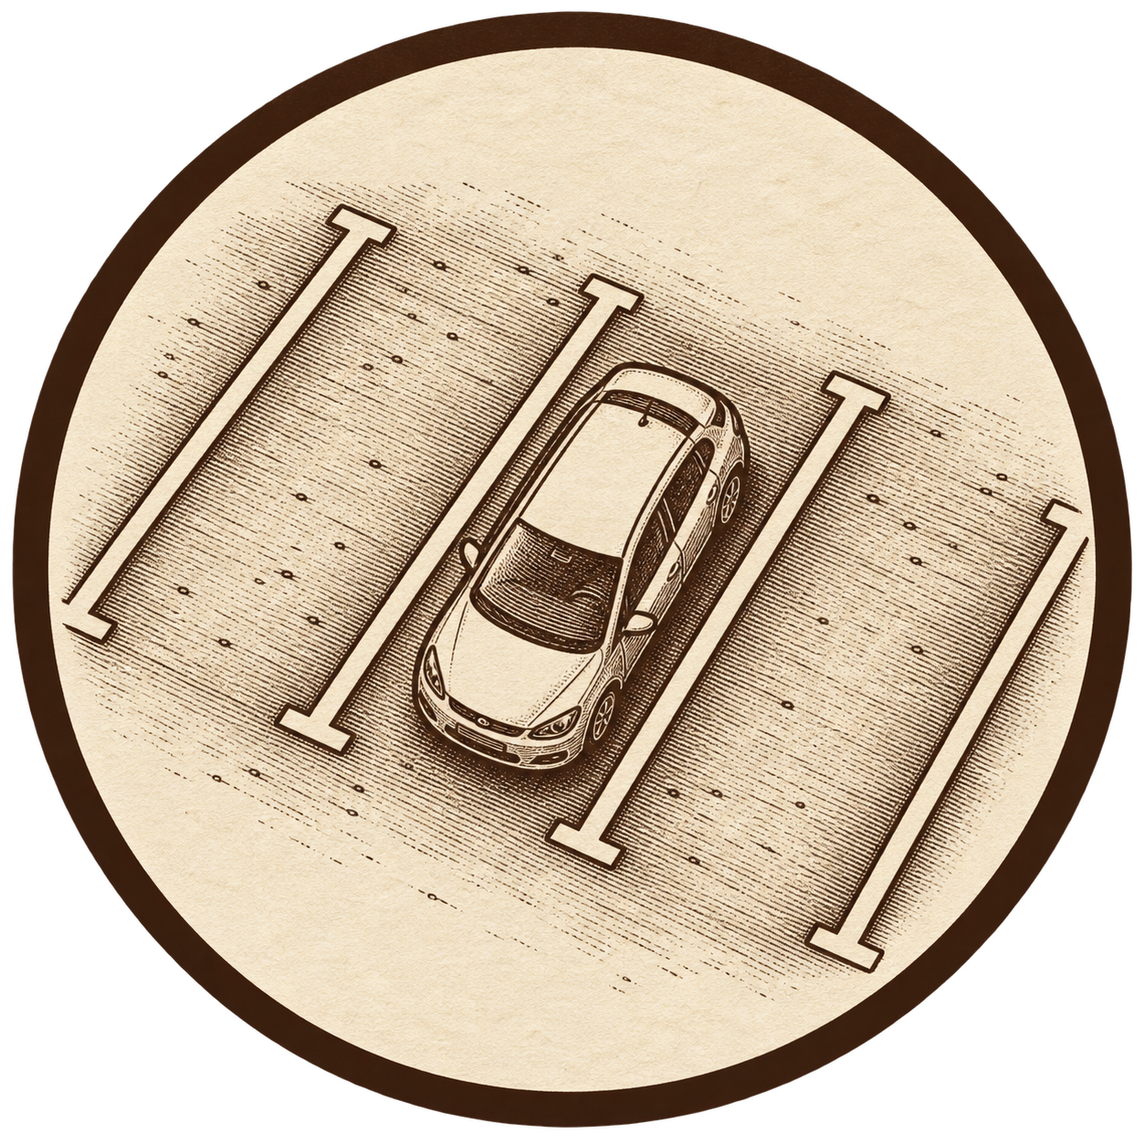
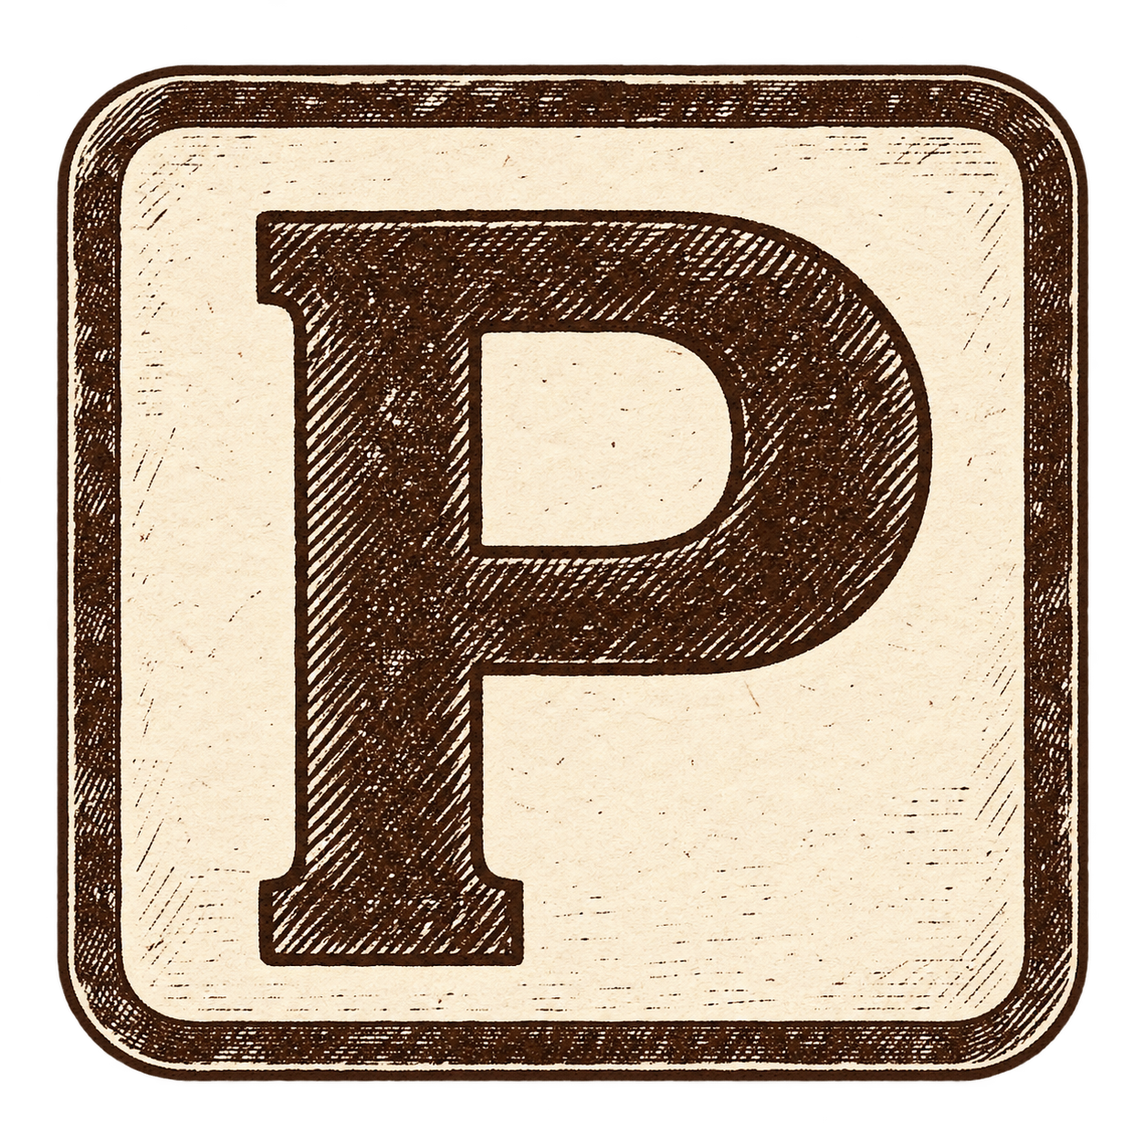
More spot areas, more pages for glossary

diff --git a/rawsite/css/style.css b/rawsite/css/style.css
@@ -73,7 +73,7 @@ main{max-width:312.208mm;margin:0 auto;padding:14.817mm var(--pad) 16.933mm}sect
 .glossary-article-eyebrow{margin:0 0 2.328mm;color:var(--alaea);font:600 3.302mm var(--sans);letter-spacing:.429mm;text-transform:uppercase}.glossary-term-layout{display:grid;grid-template-columns:minmax(0,1fr) 74.083mm;gap:10.583mm;align-items:start;margin-top:8.467mm}.glossary-definition--lead{max-width:calc(var(--measure) + 9.736mm + 4px);margin:0;padding:4.233mm 4.868mm;background:var(--kapa-warm);border-left:4px solid var(--alaea);font-size:4.318mm}.glossary-article-facts h3{margin:5.715mm 0 2.328mm;color:var(--bark);font:600 3.217mm var(--sans);letter-spacing:.483mm;text-transform:uppercase}.glossary-riding-status{margin:0;color:var(--ink-soft);font-size:3.810mm;line-height:1.4}.glossary-riding-note{margin:2.117mm 0 0;color:var(--ink-muted);font-size:3.387mm;line-height:1.35}.glossary-related{display:grid;gap:1.693mm;margin:0;padding-left:4.868mm}.glossary-related li{color:var(--ink-soft);font-size:3.895mm}.glossary-back{margin:10.583mm 0 0;padding-top:5.292mm;border-top:2px solid var(--bark);font:600 3.556mm var(--sans);letter-spacing:.285mm;text-transform:uppercase}
 .glossary-swell-figure{margin:8.467mm 0;border:2px solid var(--bark);background:var(--kapa-warm)}.glossary-swell-art{position:relative;line-height:0}.glossary-swell-art img{display:block;width:100%;height:auto}.glossary-swell-labels{position:absolute;inset:0;display:grid;grid-template-columns:1fr 1fr;grid-template-rows:1fr 1fr;gap:0;list-style:none;margin:0;padding:0;pointer-events:none}.glossary-swell-labels li{display:flex;align-items:flex-start;justify-content:flex-start;padding:2.963mm;min-width:0}.glossary-swell-labels a{pointer-events:auto;padding:1.058mm 2.117mm;background:var(--kapa);border:1px solid var(--bark);color:var(--bark);font:600 3.133mm var(--sans);letter-spacing:.251mm;line-height:1.1;text-decoration:none;text-transform:uppercase}.glossary-swell-labels a:hover,.glossary-swell-labels a[aria-current="page"]{background:var(--alaea);border-color:var(--alaea);color:var(--kapa)}.glossary-swell-key{display:grid;grid-template-columns:repeat(2,minmax(0,1fr));gap:0;margin:0}.glossary-swell-key>div{padding:2.963mm 3.598mm;border-top:1px solid var(--rule);border-right:1px solid var(--rule)}.glossary-swell-key>div:nth-child(even){border-right:0}.glossary-swell-key dt{color:var(--bark);font:600 3.133mm var(--sans);letter-spacing:.313mm;text-transform:uppercase}.glossary-swell-key dd{margin:.508mm 0 0;color:var(--ink-soft);font-size:3.598mm;line-height:1.35}
 .wave-anatomy-figure{margin:8.467mm 0;border:2px solid var(--bark);background:var(--kapa-warm)}.wave-anatomy-scroll{overflow-x:auto}.wave-anatomy-art{position:relative;min-width:152.4mm;line-height:0}.wave-anatomy-art img,.wave-anatomy-profile-svg{display:block;width:100%;height:auto}.wave-profile-bg{fill:var(--kapa-warm)}.wave-profile-water{fill:var(--reef)}.wave-profile-surface{fill:none;stroke:#fff4dd;stroke-width:8;stroke-linecap:round}.wave-profile-depthline{fill:none;stroke:var(--kapa);stroke-width:3;opacity:.28}.wave-profile-depthline--two{opacity:.18}.wave-profile-point{fill:var(--alaea);stroke:var(--kapa);stroke-width:3}.wave-profile-guide{fill:none;stroke:var(--bark);stroke-width:2;stroke-dasharray:8 7;opacity:.7}.wave-profile-measure,.wave-profile-period-measure{fill:none;stroke:var(--bark);stroke-width:4;stroke-linecap:round;stroke-linejoin:round}.wave-profile-arrow{fill:var(--alaea);stroke:var(--kapa);stroke-width:2}.wave-profile-motion{fill:none;stroke:var(--kapa);stroke-width:6;stroke-linecap:round}.wave-profile-motion-arrow{fill:var(--kapa)}.wave-profile-motion-label{position:absolute;left:86%;top:57%;transform:translate(-50%,-100%);padding:.846mm 1.693mm;background:rgba(55,41,29,.84);color:var(--kapa);font:600 2.752mm/1.1 var(--sans);letter-spacing:.159mm;text-transform:uppercase;white-space:nowrap}.wave-anatomy-labels{position:absolute;inset:0;list-style:none;margin:0;padding:0;pointer-events:none}.wave-anatomy-labels li{position:absolute;left:var(--label-x);top:var(--label-y);transform:translate(-50%,-50%)}.wave-anatomy-labels a{display:block;pointer-events:auto;padding:.846mm 1.693mm;border:1px solid var(--bark);background:rgba(243,230,201,.94);box-shadow:0 .635mm 1.693mm rgba(55,41,29,.22);color:var(--bark);font:600 2.752mm/1.1 var(--sans);letter-spacing:.159mm;text-decoration:none;text-transform:uppercase;white-space:nowrap}.wave-anatomy-labels a:hover,.wave-anatomy-labels a[aria-current="page"]{background:var(--alaea);border-color:var(--alaea);color:var(--kapa)}.wave-anatomy-figure figcaption>p{margin:0;padding:2.752mm 3.387mm;color:var(--ink-soft);font-size:3.598mm;line-height:1.4}.wave-anatomy-key{display:grid;grid-template-columns:repeat(2,minmax(0,1fr));margin:0}.wave-anatomy-key>div{padding:2.752mm 3.387mm;border-top:1px solid var(--rule);border-right:1px solid var(--rule)}.wave-anatomy-key>div:nth-child(even){border-right:0}.wave-anatomy-key dt{color:var(--bark);font:600 3.048mm var(--sans);letter-spacing:.251mm;text-transform:uppercase}.wave-anatomy-key dd{margin:.508mm 0 0;color:var(--ink-soft);font-size:3.387mm;line-height:1.35}
-@media(max-width:232.833mm){.site-header{grid-template-columns:1fr auto}.nav{grid-column:1/-1;order:3}.spot-layout,.glossary-term-layout{grid-template-columns:1fr}.facts{position:static}.spot-nav{grid-template-columns:1fr;text-align:left}.spot-nav .next{text-align:left}}
+@media(max-width:232.833mm){.site-header{grid-template-columns:1fr auto}.nav{grid-column:1/-1;order:3}.spot-layout,.glossary-intro,.glossary-term-layout{grid-template-columns:1fr}.glossary-key{order:-1}.facts{position:static}.spot-nav{grid-template-columns:1fr;text-align:left}.spot-nav .next{text-align:left}}
 @media(max-width:148.167mm){.cards{grid-template-columns:1fr}.boardscale{margin-left:-1.058mm;margin-right:-1.058mm}.boardscale-grid{min-width:150.813mm}.boardslot{min-width:23.283mm}.board-stage{height:87.313mm;padding-bottom:7.938mm}.board{height:calc(var(--board-length) * .582mm)}.glossary-swell-labels li{padding:1.693mm}.glossary-swell-labels a{font-size:2.752mm}.glossary-swell-key{grid-template-columns:1fr}.glossary-swell-key>div{border-right:0}}
 @media(max-width:148.167mm){.wave-anatomy-key{grid-template-columns:1fr}.wave-anatomy-key>div{border-right:0}.wave-anatomy-figure figcaption>p{font-size:3.387mm}}
 @media(prefers-reduced-motion:reduce){html{scroll-behavior:auto}.board-visual{transition:none}}

diff --git a/rawsite/_include/glossary-break-types-illustration.html b/rawsite/_include/glossary-break-types-illustration.html
@@ -1,0 +1,63 @@
+<script type="text/python">
+import html
+import os
+import sys
+
+sys.path.insert(0, os.path.dirname(os.path.abspath(__file__)))
+import sitedata as S
+
+b = S.base_url(page_file)
+current = params["current"]
+lang = S.lang_of(page_file)
+COPY = {
+    "en": {
+        "alt": "Four coastal scenes showing a beach break over sandbars, a reef break over a rocky shelf, a point break peeling around a headland, and a rivermouth break shaped by a river channel and sandbars.",
+        "aria": "Illustrated break types",
+        "panels": (
+            ("beach-break", "Beach break", "Moving sandbars make several short, shifting peaks and gaps in the breaking line."),
+            ("reef-break", "Reef break", "A hard fixed shelf creates one steep, powerful take-off beside a deeper channel."),
+            ("point-break", "Point break", "A headland turns swell into one long, orderly peeling wall that follows the coast."),
+            ("rivermouth", "Rivermouth break", "One sandbar beside a deep river channel focuses a defined peeling wave along the spit."),
+        ),
+    },
+    "ru": {
+        "alt": "Четыре прибрежные сцены: бич-брейк над песчаными банками, риф-брейк над каменной плитой, пойнт-брейк у мыса и устьевой брейк, который формируют русло и песчаные банки.",
+        "aria": "Типы брейков на иллюстрации",
+        "panels": (
+            ("beach-break", "Бич-брейк", "Подвижные песчаные банки создают несколько коротких, смещающихся пиков и разрывы в линии ломки."),
+            ("reef-break", "Риф-брейк", "Твёрдая неподвижная плита даёт один крутой мощный тейк-офф рядом с более глубоким каналом."),
+            ("point-break", "Пойнт-брейк", "Мыс поворачивает свелл в одну длинную ровную стенку, которая ломается вдоль берега."),
+            ("rivermouth", "Устьевой брейк", "Одна песчаная коса у глубокого речного русла собирает чёткую пилинговую волну вдоль берега."),
+        ),
+    },
+    "ja": {
+        "alt": "サンドバーの上で割れるビーチブレイク、岩棚の上のリーフブレイク、岬に沿ってピーリングするポイントブレイク、川の流路とサンドバーで形づくられる河口のブレイクを描いた四つの海岸の場面。",
+        "aria": "イラストで見るブレイクの種類",
+        "panels": (
+            ("beach-break", "ビーチブレイク", "動くサンドバーが、短く位置の変わる複数のピークとブレイクの切れ目を作ります。"),
+            ("reef-break", "リーフブレイク", "硬く固定された岩棚が、深いチャンネルの横に急でパワフルな一つのテイクオフを作ります。"),
+            ("point-break", "ポイントブレイク", "岬がうねりを曲げ、海岸線に沿って長く規則正しくピーリングする壁を作ります。"),
+            ("rivermouth", "河口のブレイク", "深い川の流路の横にある一つのサンドバーが、砂州に沿うはっきりしたピーリング波を集めます。"),
+        ),
+    },
+}[lang]
+panels = COPY["panels"]
+
+print('<figure class="glossary-swell-figure glossary-break-types-figure">')
+print('  <div class="glossary-swell-art">')
+print(f'    <img src="{b}img/glossary/break-types-v1.png" alt="{html.escape(COPY["alt"], quote=True)}" width="1254" height="1254" loading="lazy">')
+print(f'    <ol class="glossary-swell-labels" aria-label="{html.escape(COPY["aria"], quote=True)}">')
+for key, label, description in panels:
+    active = ' aria-current="page"' if key == current else ''
+    href = b + "glossary/" + S.localize(f"{key}/index.html", lang)
+    print(f'      <li><a href="{html.escape(href, quote=True)}"{active}>{html.escape(label)}</a></li>')
+print('    </ol>')
+print('  </div>')
+print('  <figcaption>')
+print('    <dl class="glossary-swell-key">')
+for key, label, description in panels:
+    print(f'      <div><dt>{html.escape(label)}</dt><dd>{html.escape(description)}</dd></div>')
+print('    </dl>')
+print('  </figcaption>')
+print('</figure>')
+</script>

diff --git a/rawsite/_include/area-profile.html b/rawsite/_include/area-profile.html
@@ -14,11 +14,12 @@ print(f'<h1>{S.AREAS_META[area_id][lang]}</h1>')
 print(f'<p class="standfirst">{area["summary"][lang]}</p>')
 print('<div class="spot-layout">')
 print('  <div class="spot-body">')
-copy = {
-    "en": ("Coast character", "A sandy beach with a gently sloping seabed. Lines of tetrapods run parallel to the shore. Suitable tide levels are low and mid, and more rarely high. The best swell directions run from east through south-southwest. In the north-eastern part (Mansionsita), soft waves suitable for longboards can form. The south-western side of the area is characterised by higher, faster waves, more suitable for mid-length and short boards.", "Spots in this area", "At a glance"),
-    "ru": ("Характер побережья", "Песчаный пляж с плавным понижением дна. Параллельно берегу расположены гряды тетраподов. Подходящие уровни прилива — низкий и средний, реже высокий. Лучшие направления свелла — с восточного по юго-юго-западный. В северо-восточной части («Мансёнсита») могут формироваться мягкие волны, хорошие для длинных досок. Юго-западная сторона района характеризуется более высокими и быстрыми волнами, подходящими скорее для средних и коротких досок.", "Споты района", "Кратко"),
-    "ja": ("海岸の特徴", "緩やかに深くなる砂浜です。海岸と平行にテトラポッドの列が並んでいます。向く潮位はロー〜ミドルで、ハイタイドはまれです。うねりは東から南南西までがよく、北東側のマンション下ではロングボード向きの緩やかな波が立つことがあります。エリア南西側はよりサイズがあり速い波で、ミッドレングスやショートボードにより向いています。", "このエリアのスポット", "ポイント概要"),
+labels = {
+    "en": ("Coast character", "Spots in this area", "At a glance"),
+    "ru": ("Характер побережья", "Споты района", "Кратко"),
+    "ja": ("海岸の特徴", "このエリアのスポット", "ポイント概要"),
 }[lang]
+copy = (labels[0], S.AREA_COAST_COPY[area_id][lang], labels[1], labels[2])
 print('<h2>' + copy[0] + '</h2>')
 print('<p>' + copy[1] + '</p>')
 print('<h2>' + copy[2] + '</h2>')

diff --git a/rawsite/spots/ichinomiya/index_ja.html b/rawsite/spots/ichinomiya/index_ja.html
@@ -1,7 +1,9 @@
 <!DOCTYPE html><html lang="ja"><head>
 <script type="text/python">html, soup = include("../../_include/head.html"); print(html)</script>
+<script type="text/python">html, soup = include("../../_include/area-map-head.html"); print(html)</script>
 <title>一宮 — Surf Japan</title><meta name="language" content="ja"><meta name="description" content="千葉・一宮のサーフエリアガイド。変化するサンドバー、東うねり、釣ヶ崎・志田下エリアを紹介します。"></head><body>
 <script type="text/python">html, soup = include("../../_include/header.html"); print(html)</script><main id="main">
 <script type="text/python">html, soup = include("../../_include/breadcrumbs.html", title="一宮"); print(html)</script>
 <script type="text/python">html, soup = include("../../_include/area-profile.html", area="ichinomiya"); print(html)</script>
+<script type="text/python">html, soup = include("../../_include/area-map.html", area="ichinomiya"); print(html)</script>
 </main><script type="text/python">html, soup = include("../../_include/footer.html"); print(html)</script></body></html>

diff --git a/rawsite/spots/sosa/index_ja.html b/rawsite/spots/sosa/index_ja.html
@@ -1,7 +1,9 @@
 <!DOCTYPE html><html lang="ja"><head>
 <script type="text/python">html, soup = include("../../_include/head.html"); print(html)</script>
+<script type="text/python">html, soup = include("../../_include/area-map-head.html"); print(html)</script>
 <title>匝瑳 — Surf Japan</title><meta name="language" content="ja"><meta name="description" content="千葉北・匝瑳のサーフエリアガイド。開けた砂のブレイク、東〜南うねり、かんぽ前を紹介します。"></head><body>
 <script type="text/python">html, soup = include("../../_include/header.html"); print(html)</script><main id="main">
 <script type="text/python">html, soup = include("../../_include/breadcrumbs.html", title="匝瑳"); print(html)</script>
 <script type="text/python">html, soup = include("../../_include/area-profile.html", area="sosa"); print(html)</script>
+<script type="text/python">html, soup = include("../../_include/area-map.html", area="sosa"); print(html)</script>
 </main><script type="text/python">html, soup = include("../../_include/footer.html"); print(html)</script></body></html>

diff --git a/rawsite/spots/sakuta/index_ja.html b/rawsite/spots/sakuta/index_ja.html
@@ -1,7 +1,9 @@
 <!DOCTYPE html><html lang="ja"><head>
 <script type="text/python">html, soup = include("../../_include/head.html"); print(html)</script>
+<script type="text/python">html, soup = include("../../_include/area-map-head.html"); print(html)</script>
 <title>作田 — Surf Japan</title><meta name="language" content="ja"><meta name="description" content="作田と九十九里海岸のサーフエリアガイド。幅広い砂浜、複数のピーク、北西風を紹介します。"></head><body>
 <script type="text/python">html, soup = include("../../_include/header.html"); print(html)</script><main id="main">
 <script type="text/python">html, soup = include("../../_include/breadcrumbs.html", title="作田"); print(html)</script>
 <script type="text/python">html, soup = include("../../_include/area-profile.html", area="sakuta"); print(html)</script>
+<script type="text/python">html, soup = include("../../_include/area-map.html", area="sakuta"); print(html)</script>
 </main><script type="text/python">html, soup = include("../../_include/footer.html"); print(html)</script></body></html>

diff --git a/rawsite/spots/katsuura/index_ja.html b/rawsite/spots/katsuura/index_ja.html
@@ -1,7 +1,9 @@
 <!DOCTYPE html><html lang="ja"><head>
 <script type="text/python">html, soup = include("../../_include/head.html"); print(html)</script>
+<script type="text/python">html, soup = include("../../_include/area-map-head.html"); print(html)</script>
 <title>勝浦 — Surf Japan</title><meta name="language" content="ja"><meta name="description" content="千葉・勝浦と御宿のサーフエリアガイド。白い砂浜、南うねり、港のピークを紹介します。"></head><body>
 <script type="text/python">html, soup = include("../../_include/header.html"); print(html)</script><main id="main">
 <script type="text/python">html, soup = include("../../_include/breadcrumbs.html", title="勝浦"); print(html)</script>
 <script type="text/python">html, soup = include("../../_include/area-profile.html", area="katsuura"); print(html)</script>
+<script type="text/python">html, soup = include("../../_include/area-map.html", area="katsuura"); print(html)</script>
 </main><script type="text/python">html, soup = include("../../_include/footer.html"); print(html)</script></body></html>

diff --git a/rawsite/spots/katsuura/index_ru.html b/rawsite/spots/katsuura/index_ru.html
@@ -1,7 +1,9 @@
 <!DOCTYPE html><html lang="ru"><head>
 <script type="text/python">html, soup = include("../../_include/head.html"); print(html)</script>
+<script type="text/python">html, soup = include("../../_include/area-map-head.html"); print(html)</script>
 <title>Кацуура — Сёрф Япония</title><meta name="language" content="ru"><meta name="description" content="Гид по сёрф-району Кацуура и Ондзюку в Тиба Минами."></head><body>
 <script type="text/python">html, soup = include("../../_include/header.html"); print(html)</script><main id="main">
 <script type="text/python">html, soup = include("../../_include/breadcrumbs.html", title="Кацуура"); print(html)</script>
 <script type="text/python">html, soup = include("../../_include/area-profile.html", area="katsuura"); print(html)</script>
+<script type="text/python">html, soup = include("../../_include/area-map.html", area="katsuura"); print(html)</script>
 </main><script type="text/python">html, soup = include("../../_include/footer.html"); print(html)</script></body></html>

diff --git a/rawsite/spots/ichinomiya/index_ru.html b/rawsite/spots/ichinomiya/index_ru.html
@@ -1,7 +1,9 @@
 <!DOCTYPE html><html lang="ru"><head>
 <script type="text/python">html, soup = include("../../_include/head.html"); print(html)</script>
+<script type="text/python">html, soup = include("../../_include/area-map-head.html"); print(html)</script>
 <title>Итиномия — Сёрф Япония</title><meta name="language" content="ru"><meta name="description" content="Гид по сёрф-району Итиномия в Тиба Кита."></head><body>
 <script type="text/python">html, soup = include("../../_include/header.html"); print(html)</script><main id="main">
 <script type="text/python">html, soup = include("../../_include/breadcrumbs.html", title="Итиномия"); print(html)</script>
 <script type="text/python">html, soup = include("../../_include/area-profile.html", area="ichinomiya"); print(html)</script>
+<script type="text/python">html, soup = include("../../_include/area-map.html", area="ichinomiya"); print(html)</script>
 </main><script type="text/python">html, soup = include("../../_include/footer.html"); print(html)</script></body></html>

diff --git a/rawsite/spots/sakuta/index_ru.html b/rawsite/spots/sakuta/index_ru.html
@@ -1,7 +1,9 @@
 <!DOCTYPE html><html lang="ru"><head>
 <script type="text/python">html, soup = include("../../_include/head.html"); print(html)</script>
+<script type="text/python">html, soup = include("../../_include/area-map-head.html"); print(html)</script>
 <title>Сакута — Сёрф Япония</title><meta name="language" content="ru"><meta name="description" content="Гид по сёрф-району Сакута в Тиба Кита."></head><body>
 <script type="text/python">html, soup = include("../../_include/header.html"); print(html)</script><main id="main">
 <script type="text/python">html, soup = include("../../_include/breadcrumbs.html", title="Сакута"); print(html)</script>
 <script type="text/python">html, soup = include("../../_include/area-profile.html", area="sakuta"); print(html)</script>
+<script type="text/python">html, soup = include("../../_include/area-map.html", area="sakuta"); print(html)</script>
 </main><script type="text/python">html, soup = include("../../_include/footer.html"); print(html)</script></body></html>

diff --git a/rawsite/spots/sosa/index_ru.html b/rawsite/spots/sosa/index_ru.html
@@ -1,7 +1,9 @@
 <!DOCTYPE html><html lang="ru"><head>
 <script type="text/python">html, soup = include("../../_include/head.html"); print(html)</script>
+<script type="text/python">html, soup = include("../../_include/area-map-head.html"); print(html)</script>
 <title>Соса — Сёрф Япония</title><meta name="language" content="ru"><meta name="description" content="Гид по сёрф-району Соса в Тиба Кита."></head><body>
 <script type="text/python">html, soup = include("../../_include/header.html"); print(html)</script><main id="main">
 <script type="text/python">html, soup = include("../../_include/breadcrumbs.html", title="Соса"); print(html)</script>
 <script type="text/python">html, soup = include("../../_include/area-profile.html", area="sosa"); print(html)</script>
+<script type="text/python">html, soup = include("../../_include/area-map.html", area="sosa"); print(html)</script>
 </main><script type="text/python">html, soup = include("../../_include/footer.html"); print(html)</script></body></html>

diff --git a/rawsite/spots/katsuura/index.html b/rawsite/spots/katsuura/index.html
@@ -1,7 +1,9 @@
 <!DOCTYPE html><html lang="en"><head>
 <script type="text/python">html, soup = include("../../_include/head.html"); print(html)</script>
+<script type="text/python">html, soup = include("../../_include/area-map-head.html"); print(html)</script>
 <title>Katsuura — Surf Japan</title><meta name="language" content="en"><meta name="description" content="A surf-area guide to Katsuura and Onjuku, Chiba South."></head><body>
 <script type="text/python">html, soup = include("../../_include/header.html"); print(html)</script><main id="main">
 <script type="text/python">html, soup = include("../../_include/breadcrumbs.html", title="Katsuura"); print(html)</script>
 <script type="text/python">html, soup = include("../../_include/area-profile.html", area="katsuura"); print(html)</script>
+<script type="text/python">html, soup = include("../../_include/area-map.html", area="katsuura"); print(html)</script>
 </main><script type="text/python">html, soup = include("../../_include/footer.html"); print(html)</script></body></html>
